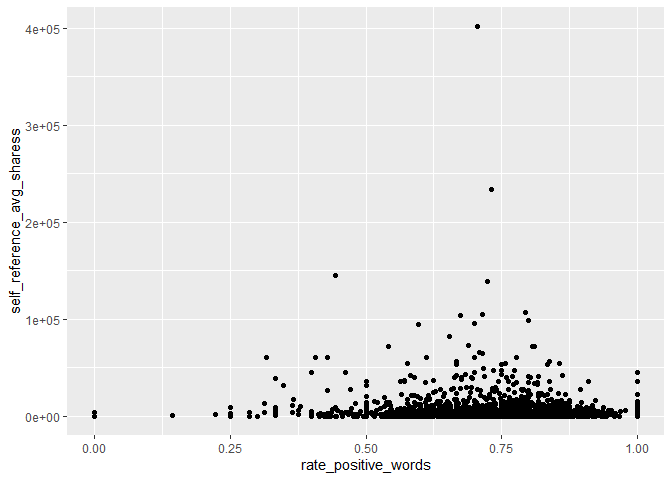
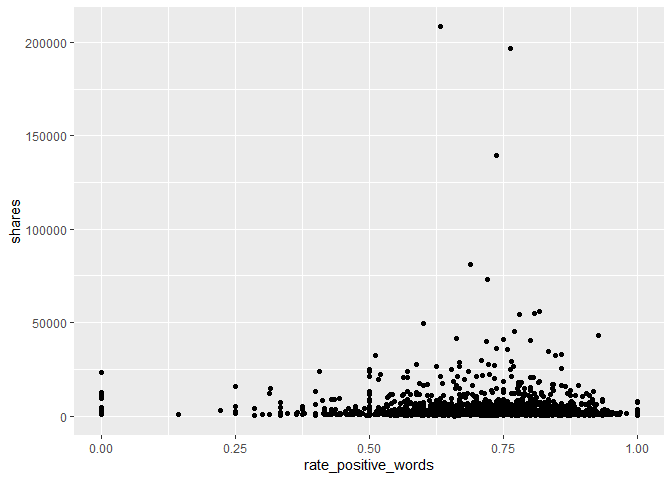
updated title

diff --git a/data_channel_is_entertainment.md b/data_channel_is_entertainment.md
@@ -1,4 +1,4 @@
-Channel Analysis
+Analysis for the Entertainment Channel
 ================
 Maks Nikiforov and Mark Austin
 Due 10/31/2021
@@ -8,8 +8,6 @@ Due 10/31/2021
 -   [Summarizations](#summarizations)
 -   [Modeling](#modeling)
 -   [Model Comparisions](#model-comparisions)
-
-**Analysis for the Entertainment Channel**
 
 ## Introduction
 
@@ -171,7 +169,7 @@ str(channelData)
 ``` r
 ##For now this is just a test graph to test out automation
 g<-ggplot(data = channelData,
-          aes(x=rate_positive_words,y=self_reference_avg_sharess))
+          aes(x=rate_positive_words,y=shares))
 g + geom_point()
 ```
 

diff --git a/data_channel_is_socmed.md b/data_channel_is_socmed.md
@@ -1,4 +1,4 @@
-Channel Analysis
+Analysis for the Social Media Channel
 ================
 Maks Nikiforov and Mark Austin
 Due 10/31/2021
@@ -8,8 +8,6 @@ Due 10/31/2021
 -   [Summarizations](#summarizations)
 -   [Modeling](#modeling)
 -   [Model Comparisions](#model-comparisions)
-
-**Analysis for the Social Media Channel**
 
 ## Introduction
 
@@ -171,7 +169,7 @@ str(channelData)
 ``` r
 ##For now this is just a test graph to test out automation
 g<-ggplot(data = channelData,
-          aes(x=rate_positive_words,y=self_reference_avg_sharess))
+          aes(x=rate_positive_words,y=shares))
 g + geom_point()
 ```
 

diff --git a/data_channel_is_lifestyle.md b/data_channel_is_lifestyle.md
@@ -1,4 +1,4 @@
-Channel Analysis
+Analysis for the Lifestyle Channel
 ================
 Maks Nikiforov and Mark Austin
 Due 10/31/2021
@@ -8,8 +8,6 @@ Due 10/31/2021
 -   [Summarizations](#summarizations)
 -   [Modeling](#modeling)
 -   [Model Comparisions](#model-comparisions)
-
-**Analysis for the Lifestyle Channel**
 
 ## Introduction
 
@@ -171,7 +169,7 @@ str(channelData)
 ``` r
 ##For now this is just a test graph to test out automation
 g<-ggplot(data = channelData,
-          aes(x=rate_positive_words,y=self_reference_avg_sharess))
+          aes(x=rate_positive_words,y=shares))
 g + geom_point()
 ```
 

diff --git a/data_channel_is_bus.md b/data_channel_is_bus.md
@@ -1,4 +1,4 @@
-Channel Analysis
+Analysis for the Business Channel
 ================
 Maks Nikiforov and Mark Austin
 Due 10/31/2021
@@ -8,8 +8,6 @@ Due 10/31/2021
 -   [Summarizations](#summarizations)
 -   [Modeling](#modeling)
 -   [Model Comparisions](#model-comparisions)
-
-**Analysis for the Business Channel**
 
 ## Introduction
 
@@ -171,7 +169,7 @@ str(channelData)
 ``` r
 ##For now this is just a test graph to test out automation
 g<-ggplot(data = channelData,
-          aes(x=rate_positive_words,y=self_reference_avg_sharess))
+          aes(x=rate_positive_words,y=shares))
 g + geom_point()
 ```
 

diff --git a/data_channel_is_world.md b/data_channel_is_world.md
@@ -1,4 +1,4 @@
-Channel Analysis
+Analysis for the World Channel
 ================
 Maks Nikiforov and Mark Austin
 Due 10/31/2021
@@ -8,8 +8,6 @@ Due 10/31/2021
 -   [Summarizations](#summarizations)
 -   [Modeling](#modeling)
 -   [Model Comparisions](#model-comparisions)
-
-**Analysis for the World Channel**
 
 ## Introduction
 
@@ -171,7 +169,7 @@ str(channelData)
 ``` r
 ##For now this is just a test graph to test out automation
 g<-ggplot(data = channelData,
-          aes(x=rate_positive_words,y=self_reference_avg_sharess))
+          aes(x=rate_positive_words,y=shares))
 g + geom_point()
 ```
 

diff --git a/data_channel_is_tech.md b/data_channel_is_tech.md
@@ -1,4 +1,4 @@
-Channel Analysis
+Analysis for the Tech Channel
 ================
 Maks Nikiforov and Mark Austin
 Due 10/31/2021
@@ -8,8 +8,6 @@ Due 10/31/2021
 -   [Summarizations](#summarizations)
 -   [Modeling](#modeling)
 -   [Model Comparisions](#model-comparisions)
-
-**Analysis for the Tech Channel**
 
 ## Introduction
 
@@ -171,7 +169,7 @@ str(channelData)
 ``` r
 ##For now this is just a test graph to test out automation
 g<-ggplot(data = channelData,
-          aes(x=rate_positive_words,y=self_reference_avg_sharess))
+          aes(x=rate_positive_words,y=shares))
 g + geom_point()
 ```
 
